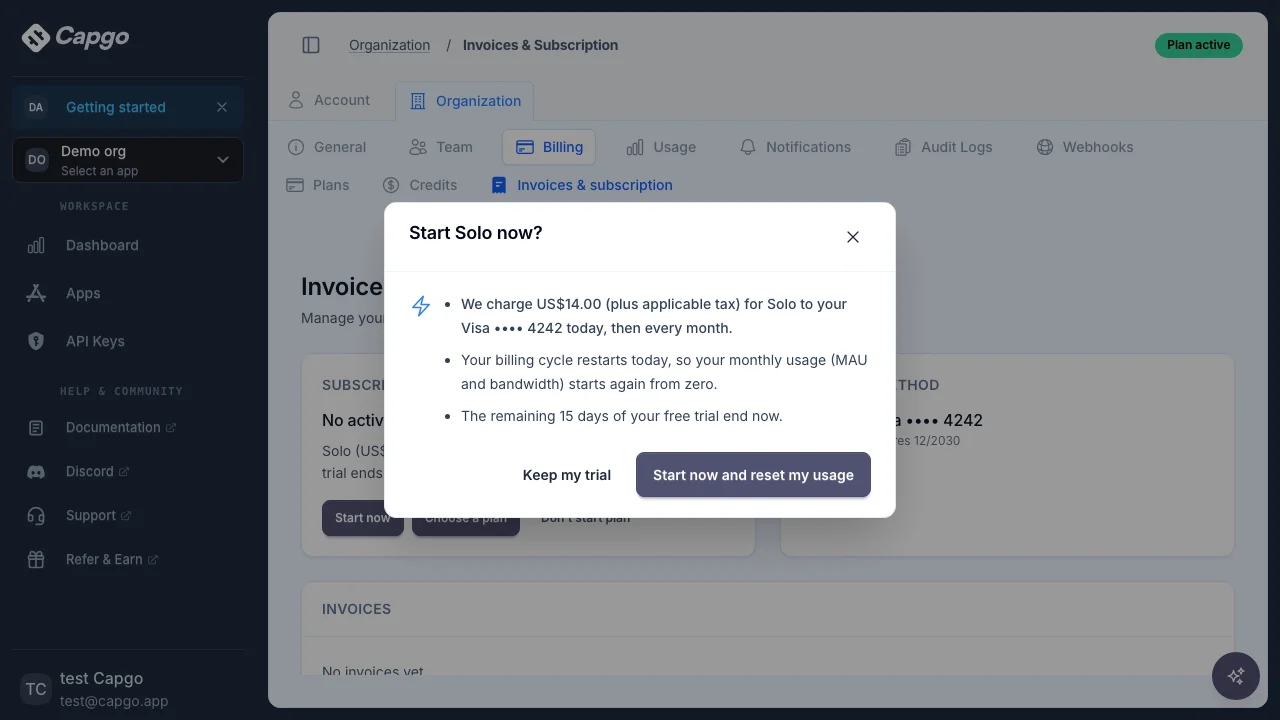
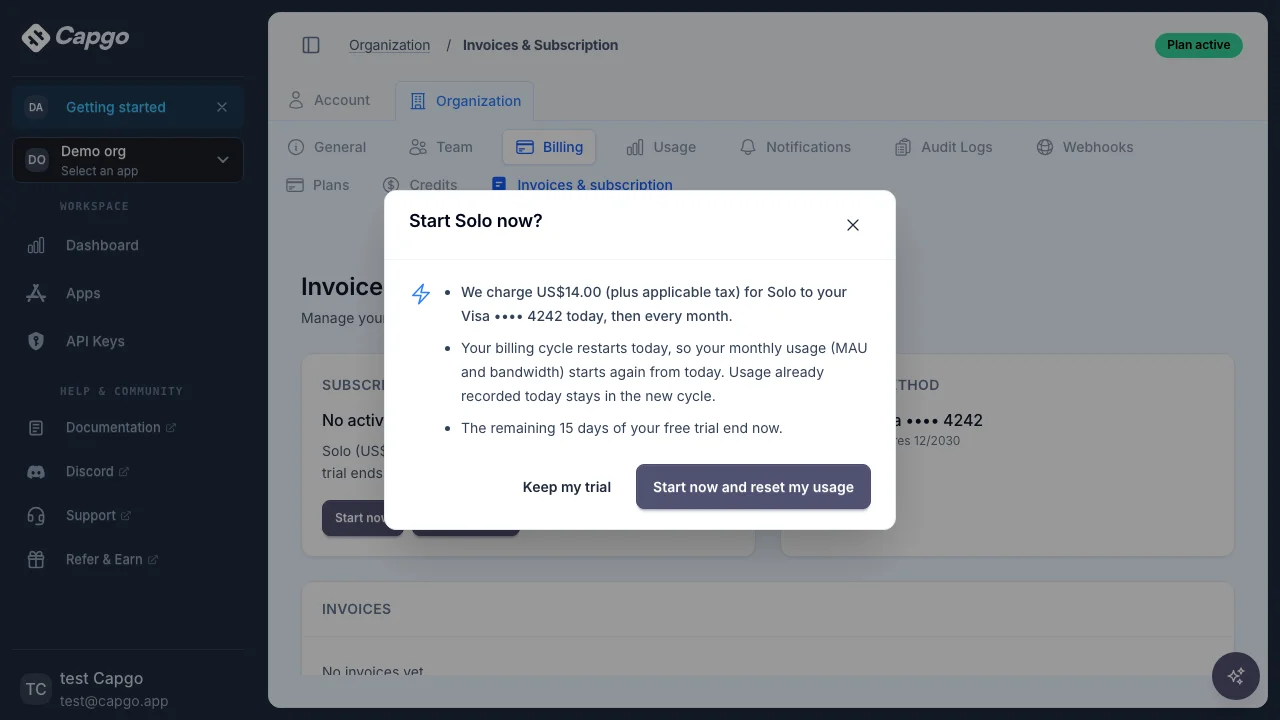
fix(billing): serialize Start now and disclose today's usage
Review fixes for the trial Start now flow:

- Serialize Start now per Stripe customer with a transaction-scoped
  advisory lock, and look up the customer's live Stripe subscriptions
  inside it before creating one. A started-now subscription is reused (a
  retry after a lost response); any other live subscription is refused
  with trial_plan_already_subscribed. Two concurrent requests, another
  card, or different attribution cookies can no longer charge twice.
- Usage is summed per UTC day from the cycle start date, so today's MAU
  and bandwidth stay in the new cycle: the dialog now says so instead of
  promising a reset to zero.
- The dialog closes when Billing reloads with another plan or card, and a
  stale refusal (trial over, already subscribed, card removed) shows
  "billing changed" and reloads Billing instead of reporting a card
  failure. New PostHog event trial_plan_start_now_unavailable.
- Visual diff: only open the dialog on the after phase; the base revision
  has no Start now button.
- Translator context documents {plan} and {price}.

Changed region(s): [[0.2812, 0.3972, 0.7188, 0.7333], [0.2812, 0.2444, 0.7188, 0.3361]]

diff --git a/supabase/functions/_backend/utils/stripe_trial_plan.ts b/supabase/functions/_backend/utils/stripe_trial_plan.ts
@@ -6,6 +6,7 @@ import { syncBentoSubscriberTags, trackBentoEvent } from './bento.ts'
 import { TRIAL_CARD_BENTO_TAG } from './billing_bento_tags.ts'
 import { simpleError } from './hono.ts'
 import { cloudlog, cloudlogErr } from './logging.ts'
+import { closeClient, getPgClient, withPgTransaction } from './pg.ts'
 import type { BillingAccount } from './stripe_billing.ts'
 import { findPlanByProductId, getPlanPriceId, getPlanProductId, isAutomaticTaxEnabled, TRIAL_PLAN_SCHEDULE_METADATA_KEY } from './stripe_billing.ts'
 import { supabaseAdmin } from './supabase.ts'
@@ -425,11 +426,28 @@ export interface StartNowSubscriptionInput {
   metadata: Record<string, string>
 }
 
+// Statuses that mean the customer already has a subscription Stripe bills or may still bill.
+const LIVE_SUBSCRIPTION_STATUSES = new Set<Stripe.Subscription.Status>(['active', 'trialing', 'past_due', 'unpaid', 'incomplete'])
+
+// The webhook updates stripe_info only after the fact, so ask Stripe directly.
+async function findLiveSubscription(stripe: Stripe, customerId: string) {
+  const page = await stripe.subscriptions.list({ customer: customerId, status: 'all', limit: 100 })
+  return page.data.find(subscription => LIVE_SUBSCRIPTION_STATUSES.has(subscription.status)) ?? null
+}
+
 // Charges the first month right away. error_if_incomplete makes Stripe reject the request
 // (no subscription is left behind) when the card is declined or needs authentication.
-// The idempotency key covers the card and parameters, so a double click returns the same
-// subscription while a retry with another card is a new attempt.
-export async function createStartNowSubscription(stripe: Stripe, input: StartNowSubscriptionInput) {
+// Callers hold the per-customer start-now lock: an existing live subscription is reused when
+// it is a started-now plan (a retry after a lost response) and refused otherwise, so two
+// requests, other cards or other attribution cookies can never charge twice. The
+// idempotency key also covers a network retry of the same request.
+export async function createStartNowSubscription(stripe: Stripe, input: StartNowSubscriptionInput): Promise<{ subscription: Stripe.Subscription, reused: boolean }> {
+  const live = await findLiveSubscription(stripe, input.customerId)
+  if (live) {
+    if (isTrialPlanStartedNow(live))
+      return { subscription: live, reused: true }
+    throw simpleError('trial_plan_already_subscribed', 'This organization already has a subscription')
+  }
   const metadata = {
     ...input.metadata,
     org_id: input.orgId,
@@ -447,7 +465,7 @@ export async function createStartNowSubscription(stripe: Stripe, input: StartNow
   }
   const idempotencyKey = `capgo-trial-start-now:${input.customerId}:${await sha256Hex(JSON.stringify(params))}`
   try {
-    return await stripe.subscriptions.create(params, { idempotencyKey })
+    return { subscription: await stripe.subscriptions.create(params, { idempotencyKey }), reused: false }
   }
   catch (error) {
     const stripeError = error as { type?: string, statusCode?: number, code?: string }
@@ -461,9 +479,23 @@ export function isTrialPlanStartedNow(subscription: Pick<Stripe.Subscription, 'm
   return subscription.metadata?.[TRIAL_PLAN_STARTED_NOW_METADATA_KEY] === 'true'
 }
 
+// Serializes Start now per Stripe customer for the duration of the Stripe calls.
+async function withStartNowLock<T>(c: Context, customerId: string, run: () => Promise<T>): Promise<T> {
+  const pool = await getPgClient(c)
+  try {
+    return await withPgTransaction(pool, async (client) => {
+      await client.query('SELECT pg_catalog.pg_advisory_xact_lock(hashtextextended($1, 0))', [`trial_start_now:${customerId}`])
+      return await run()
+    })
+  }
+  finally {
+    closeClient(c, pool)
+  }
+}
+
 // "Start now": begin the trial plan today instead of when the trial ends. Stripe's billing
-// period starts today, and the billing cycle (subscription_anchor_start/end) follows it, so
-// the monthly usage counters restart from zero.
+// period starts today and the billing cycle (subscription_anchor_start/end) follows it. Usage
+// is summed per UTC day from the cycle start date, so today's usage stays in the new cycle.
 export async function startTrialPlanNow(
   c: Context,
   ctx: InAppBillingContext,
@@ -487,15 +519,15 @@ export async function startTrialPlanNow(
     throw simpleError('missing_payment_method', 'Add a card before starting the plan')
 
   const price = await ctx.stripe.prices.retrieve(state.priceId)
-  const subscription = await createStartNowSubscription(ctx.stripe, {
+  const { subscription, reused } = await withStartNowLock(c, ctx.customerId, () => createStartNowSubscription(ctx.stripe, {
     customerId: ctx.customerId,
     orgId,
     priceId: state.priceId,
     paymentMethodId,
     automaticTax: isAutomaticTaxEnabled(ctx.billingAccount),
     metadata,
-  })
-  cloudlog({ requestId: c.get('requestId'), message: 'trial plan started now', orgId, subscriptionId: subscription.id, productId: state.productId })
+  }))
+  cloudlog({ requestId: c.get('requestId'), message: reused ? 'trial plan already started now' : 'trial plan started now', orgId, subscriptionId: subscription.id, productId: state.productId })
   // The plan already started: a pending trial-end schedule would bill a second subscription.
   // The webhook repeats this for the new subscription, so a failure here is retried there.
   try {
@@ -513,7 +545,8 @@ export async function startTrialPlanNow(
     startsAt: new Date(subscription.created * 1000).toISOString(),
     scheduled: false,
   }
-  await notifyBento(c, orgId, c.get('auth')?.userId, 'started_now', summary)
+  if (!reused)
+    await notifyBento(c, orgId, c.get('auth')?.userId, 'started_now', summary)
   return { plan: summary, subscriptionId: subscription.id }
 }
 

diff --git a/tests/stripe-trial-plan.unit.test.ts b/tests/stripe-trial-plan.unit.test.ts
@@ -304,7 +304,7 @@ describe('start trial plan now', () => {
 
   it('charges the first invoice now and marks the subscription as a trial plan started now', async () => {
     const create = vi.fn(async () => ({ id: 'sub_now', created: 1 }))
-    const stripe = { subscriptions: { create } } as unknown as Stripe
+    const stripe = { subscriptions: { create, list: vi.fn(async () => ({ data: [] })) } } as unknown as Stripe
     await createStartNowSubscription(stripe, input)
     expect(create).toHaveBeenCalledWith({
       customer: 'cus_1',
@@ -317,9 +317,27 @@ describe('start trial plan now', () => {
     }, { idempotencyKey: expect.stringMatching(/^capgo-trial-start-now:cus_1:[0-9a-f]{64}$/) })
   })
 
+  it('returns the started-now subscription instead of charging again', async () => {
+    const live = { id: 'sub_now', status: 'active', metadata: { capgo_trial_plan: 'true', capgo_trial_started_now: 'true' } }
+    const create = vi.fn()
+    const list = vi.fn(async () => ({ data: [{ id: 'sub_old', status: 'canceled', metadata: {} }, live] }))
+    const stripe = { subscriptions: { create, list } } as unknown as Stripe
+    await expect(createStartNowSubscription(stripe, { ...input, paymentMethodId: 'pm_other' })).resolves.toEqual({ subscription: live, reused: true })
+    expect(list).toHaveBeenCalledWith({ customer: 'cus_1', status: 'all', limit: 100 })
+    expect(create).not.toHaveBeenCalled()
+  })
+
+  it('refuses to start now when another subscription is live', async () => {
+    const create = vi.fn()
+    const list = vi.fn(async () => ({ data: [{ id: 'sub_checkout', status: 'past_due', metadata: {} }] }))
+    const stripe = { subscriptions: { create, list } } as unknown as Stripe
+    await expect(createStartNowSubscription(stripe, input)).rejects.toMatchObject({ cause: { error: 'trial_plan_already_subscribed' } })
+    expect(create).not.toHaveBeenCalled()
+  })
+
   it('reuses the idempotency key for a double click and changes it for another card', async () => {
     const create = vi.fn(async () => ({ id: 'sub_now', created: 1 }))
-    const stripe = { subscriptions: { create } } as unknown as Stripe
+    const stripe = { subscriptions: { create, list: vi.fn(async () => ({ data: [] })) } } as unknown as Stripe
     await createStartNowSubscription(stripe, input)
     await createStartNowSubscription(stripe, input)
     await createStartNowSubscription(stripe, { ...input, paymentMethodId: 'pm_2' })
@@ -332,7 +350,7 @@ describe('start trial plan now', () => {
     const create = vi.fn(async () => {
       throw Object.assign(new Error('Your card was declined.'), { type: 'StripeCardError', statusCode: 402, code: 'card_declined' })
     })
-    const stripe = { subscriptions: { create } } as unknown as Stripe
+    const stripe = { subscriptions: { create, list: vi.fn(async () => ({ data: [] })) } } as unknown as Stripe
     await expect(createStartNowSubscription(stripe, input)).rejects.toMatchObject({
       status: 400,
       cause: { error: 'trial_plan_payment_failed', moreInfo: { code: 'card_declined' } },
@@ -343,7 +361,7 @@ describe('start trial plan now', () => {
     const create = vi.fn(async () => {
       throw Object.assign(new Error('rate limited'), { type: 'StripeRateLimitError', statusCode: 429 })
     })
-    const stripe = { subscriptions: { create } } as unknown as Stripe
+    const stripe = { subscriptions: { create, list: vi.fn(async () => ({ data: [] })) } } as unknown as Stripe
     await expect(createStartNowSubscription(stripe, input)).rejects.toThrow('rate limited')
   })
 })

diff --git a/src/components/billing/TrialPlanStartNowModal.vue b/src/components/billing/TrialPlanStartNowModal.vue
@@ -2,7 +2,7 @@
 /**
  * "Start now" for a trial org: charges the saved card today for the trial plan instead of
  * waiting for the trial to end. Discloses the charge, that the rest of the trial ends, and
- * that the billing cycle restarts today so monthly usage starts again from zero.
+ * that the billing cycle restarts today (usage already recorded today stays in it).
  */
 
 import type { BillingCard, TrialPlan } from '~/services/stripe'
@@ -11,6 +11,7 @@ import { useI18n } from 'vue-i18n'
 import { toast } from 'vue-sonner'
 import IconBolt from '~icons/heroicons/bolt'
 import BillingModal from '~/components/billing/BillingModal.vue'
+import { getCapgoApiErrorCode } from '~/services/capgoApi'
 import { pushEvent } from '~/services/posthog'
 import { formatStripeAmount, startTrialPlanNow } from '~/services/stripe'
 import { getLocalConfig } from '~/services/supabase'
@@ -26,7 +27,12 @@ const props = defineProps<{
 const emit = defineEmits<{
   close: []
   started: [plan: TrialPlan]
+  // The org can no longer start now (trial over, already subscribed): Billing reloads.
+  stale: []
 }>()
+
+// Backend refusals that mean the offer is out of date, not that the card failed.
+const STALE_ERROR_CODES = new Set(['trial_plan_unavailable', 'trial_plan_already_subscribed', 'missing_payment_method'])
 
 const { t } = useI18n()
 const config = getLocalConfig()
@@ -47,6 +53,12 @@ function track(event: string) {
 
 watch(() => props.orgId, (id) => {
   if (id !== startOrgId)
+    emit('close')
+})
+
+// Billing reloaded and no longer offers the plan (or it changed): do not confirm an old charge.
+watch(() => [props.plan.productId, props.plan.amount, props.card.id] as const, (next, previous) => {
+  if (next.some((value, index) => value !== previous[index]))
     emit('close')
 })
 
@@ -73,6 +85,12 @@ async function startNow() {
   }
   catch (error) {
     console.error('Cannot start trial plan now', error)
+    if (STALE_ERROR_CODES.has(await getCapgoApiErrorCode(error) ?? '')) {
+      track('trial_plan_start_now_unavailable')
+      toast.error(t('trial-plan-start-now-unavailable'))
+      emit('stale')
+      return
+    }
     track('trial_plan_start_now_failed')
     toast.error(t('trial-plan-start-now-error'))
   }

diff --git a/playwright/visual-diff.config.ts b/playwright/visual-diff.config.ts
@@ -548,8 +548,14 @@ export const visualDiffRoutes: VisualDiffRoute[] = [
         trialPlan: visualTrialPlan(true),
       } }))
       await page.reload()
-      await page.locator('[data-test="billing-trial-plan-start-now"]').click()
-      await page.locator('[data-test="trial-plan-start-now-confirm"]').waitFor()
+      // The base revision has no Start now button: capture Billing there instead.
+      if (process.env.VISUAL_DIFF_PHASE === 'after') {
+        await page.locator('[data-test="billing-trial-plan-start-now"]').click()
+        await page.locator('[data-test="trial-plan-start-now-confirm"]').waitFor()
+      }
+      else {
+        await page.locator('[data-test="billing-subscription"]').waitFor()
+      }
     },
   },
   { slug: 'account-settings', path: '/settings/account', auth: true },

diff --git a/src/pages/settings/organization/Billing.vue b/src/pages/settings/organization/Billing.vue
@@ -592,6 +592,7 @@ onMounted(async () => {
       source="billing"
       @close="showStartNowModal = false"
       @started="onTrialPlanStartedNow"
+      @stale="onTrialPlanStartedNow"
     />
     <CancelPlanModal
       v-if="showCancelModal"
